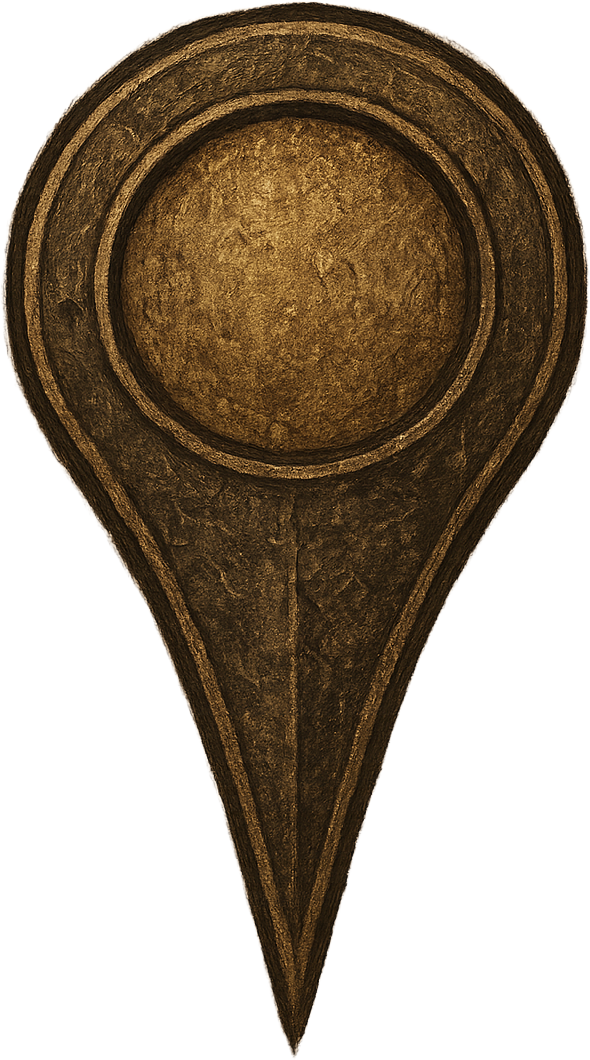
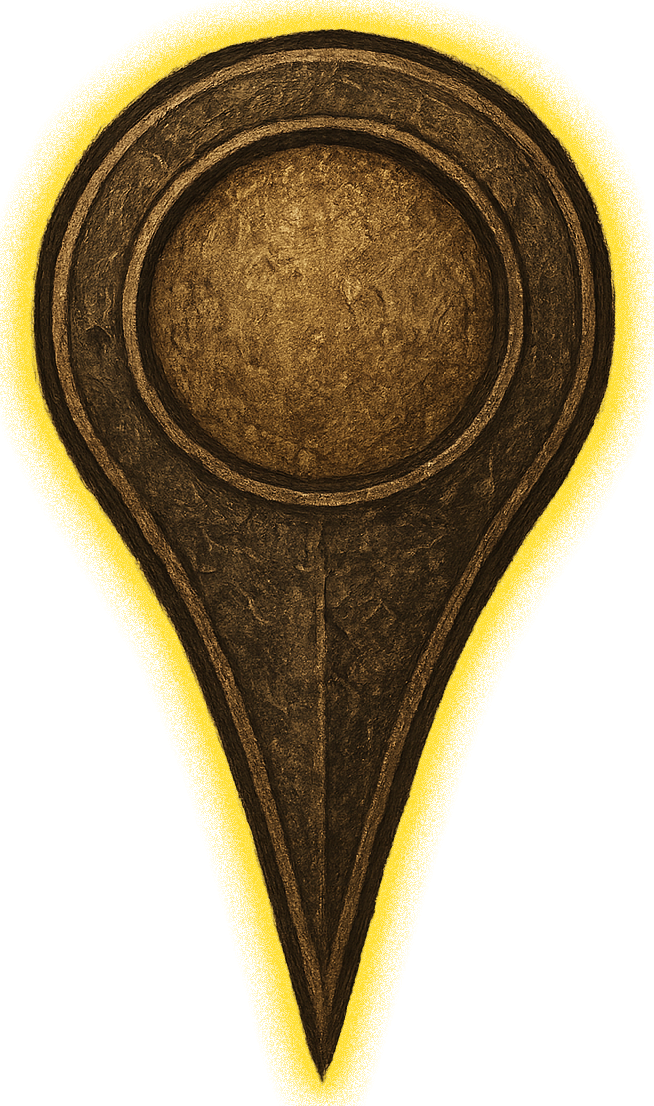
座標を添加した

diff --git a/js/elden-ring-map.js b/js/elden-ring-map.js
@@ -6,10 +6,10 @@ var mapMinResolution = Math.pow(2, mapMaxZoom) * mapMaxResolution;
 var tileExtent = [0.00000000, -6809.00000000, 6509.00000000, 0.00000000];
 var crs = L.CRS.Simple;
 crs.transformation = new L.Transformation(1, -tileExtent[0], -1, tileExtent[3]);
-crs.scale = function(zoom) {
+crs.scale = function (zoom) {
   return Math.pow(2, zoom) / mapMinResolution;
 };
-crs.zoom = function(scale) {
+crs.zoom = function (scale) {
   return Math.log(scale * mapMinResolution) / Math.LN2;
 };
 var layer;
@@ -22,7 +22,7 @@ var map = new L.Map('map', {
 layer = L.tileLayer('images/eldenring_map/{z}/{x}/{y}.jpg', {
   minZoom: mapMinZoom, maxZoom: mapMaxZoom,
   tileSize: L.point(512, 512),
-  attribution: '<a href="https://www.maptiler.com/engine/">Rendered with MapTiler Engine</a>, non-commercial use only',
+  attribution: '',
   noWrap: true,
   tms: true
 }).addTo(map);
@@ -33,3 +33,169 @@ map.fitBounds([
 ]);
 
 L.control.mousePosition().addTo(map);
+
+
+// ========== 0) 工具函数 ==========
+function escapeHtml(s = "") {
+  return s.replace(/[&<>"']/g, m => ({ '&': '&amp;', '<': '&lt;', '>': '&gt;', '"': '&quot;', "'": '&#39;' }[m]));
+}
+
+// 若你的底图是用 L.CRS.Simple（常见于切图的大图），你可能掌握的是“像素坐标”。
+// 可以用这个小工具把像素坐标转成 Leaflet 需要的 LatLng：
+function fromPixels(pxX, pxY, atZoom = (map && map.getMaxZoom ? map.getMaxZoom() : 0)) {
+  // 返回 [lat, lng]
+  return map.unproject([pxX, pxY], atZoom);
+}
+
+// ========== 1) 信息面板渲染 ==========
+const infoBox = document.querySelector('#poi-info') || document.querySelector('.info');
+function nl2br(s = '') {
+  // 先转义，再把 \n 变成 <br>
+  return escapeHtml(s).replace(/\r?\n/g, '<br>');
+}
+
+function renderInfo(poi) {
+  const infoBox = document.querySelector('#poi-info') || document.querySelector('.info');
+  const safeName = escapeHtml(poi.name);
+  const analysisHtml = nl2br(poi.analysis || '');
+  infoBox.innerHTML = `
+    <h2>${safeName}</h2>
+    ${poi.img ? `<img src="${poi.img}" alt="${safeName}">` : ''}
+    <p class="analysis">${analysisHtml}</p>
+  `;
+}
+
+// ========== 2) 自定义图标 ==========
+// 1) 按原图比例 590:1060 设置显示尺寸（像素）
+//    你只需要改这个高度即可（例如 48、56、64 等），宽度会自动按比例算。
+const PIN_HEIGHT = 56;
+const PIN_RATIO = 590 / 1060; // 宽高比
+const PIN_WIDTH = Math.round(PIN_HEIGHT * PIN_RATIO);
+
+// 2) 锚点在图片底部正中（x = 宽度一半，y = 高度）
+//    这样大头针“尖端”就会准确落在坐标点上。
+const pinIcon = L.icon({
+  iconUrl: 'images/thumbtack_icon.png',
+  iconSize: [PIN_WIDTH, PIN_HEIGHT],
+  iconAnchor: [Math.round(PIN_WIDTH / 2), PIN_HEIGHT],
+  // 可选：给提示/tooltip使用
+  tooltipAnchor: [0, -Math.round(PIN_HEIGHT * 0.8)]
+});
+
+// ========== 3) 兴趣点数据（示例） ==========
+// coords 使用 [lat, lng]（Leaflet 坐标）。如果你的地图是 L.CRS.Simple，
+// 而你手里是像素坐标 (pxX, pxY)，则请用 fromPixels(pxX, pxY) 转换。
+const POIS = [{
+  id: 'limgrave',
+  name: 'リムグレイブ',
+  coords: [-5200, 2500],
+  img: 'images/pois/limgrave.jpg',
+  analysis: '【背景紹介】はじまりの地。嵐と陽光が交錯する丘陵と古城、放棄された砦が「褪せ人」の出立地点としての寓意を担う。\n【美術分析】空はしばしば高コントラストで、雲影が芝の起伏を切り分ける。彩度を抑えた緑と石灰質の灰が主調で、黄金樹の黄のみが高彩度のアクセントとして遠景に釘を打つ。道は蛇行しつつ視線を遺跡と城砦へ導き、樹木はウィンドブレイク（風の方向）を示して時間感覚を生む。中世風の石造モチーフと自然の有機的形状の対置によって、「文明の残響」のテーマが視覚的に確立される。'
+},
+{
+  id: 'caelid',
+  name: 'ケイリッド',
+  coords: [-4850, 3600],
+  img: 'images/pois/caelid.jpg',
+  analysis: '【背景紹介】腐敗と戦役の傷跡が大地そのものを蝕んだ辺境。\n【美術分析】色彩は病的な赤と黒の二項対立。空気遠近は通常の青みを捨て、粉塵のオレンジ霧で距離感を歪ませる。樹形はねじれ、地表は膿泡のような起伏を繰り返し、輪郭は鋸歯状に処理されるため視覚的ストレスが持続する。直立する風車・骨柱が垂直軸を強調し、地平線の低さと相まって圧迫感を増幅。「腐敗＝崩壊美」の審美を、意図的な不快さと荘厳さの同居で描く。'
+},
+{
+  id: 'raya-lucaria',
+  name: '魔術学院レアルカリア',
+  coords: [-3553, 842],
+  img: 'images/pois/raya-lucaria.jpg',
+  analysis: '【背景紹介】学術と権威の象徴として湖上に孤立する学院都市。\n【美術分析】ゴシック的尖塔と回廊の反復が「知の垂直性」を示す。石材は冷色寄りのグレーで統一し、湖面の反射光が建築のシャドウを青く冷却する。構図は常に上下二層（空／水）で挟み込み、橋梁や舟が唯一の水平導線となる。魔術効果の粒子は補色の淡い青白で処理され、静謐な色面の中に微細な運動を与える。空間全体が実験室のように滅菌され、「理性の距離」を視覚化。'
+},
+{
+  id: 'stormveil',
+  name: 'ストームヴィル城',
+  coords: [-4850, 1800],
+  img: 'images/pois/stormveil.jpg',
+  analysis: '【背景紹介】嵐を抱く断崖に築かれた巨大城塞。門は客人を拒む身体のように歪む。\n【美術分析】斜線（風・旗・雲）が構図全体を支配し、常に対角方向の運動が生まれる。石壁は苔・蔦・割れでテクスチャ密度が高く、近景の粗さ／遠景の均整というスケールの反転が不安を醸す。暖色の松明が冷たい石の色温度を局所的に反転し、攻略導線を示すダイエジェティック・ライティングとして機能。建築は「加算」ではなく「欠損」で語られ、欠け・崩落が物語の主語となる。'
+},
+{
+  id: 'liurnia',
+  name: '湖のリエーニエ',
+  coords: [-4050, 1100],
+  img: 'images/pois/liurnia.jpg',
+  analysis: '【背景紹介】浅い湖水と霧が領する学術領の外縁。\n【美術分析】低彩度の群青〜灰が基調で、霧のボリュームライトが遠近を柔らかく分節する。水面は鏡ではなく薄膜として描かれ、反射は意図的に鈍らせて冴えを回避。尖塔や墓標が点景として水平の単調さを破り、視線をスキャンするリズムを作る。環境音と色の冷却で「余白」を強調し、戦闘の閃光が画面の唯一の高周波情報として際立つ、静／動の対照が美学の核。'
+},
+{
+  id: 'altus-plateau',
+  name: 'アルトゥス高原',
+  coords: [-2200, 1932],
+  img: 'images/pois/altus-plateau.jpg',
+  analysis: '【背景紹介】黄金樹に最も近い高地。豊穣と荘厳が同時に現れる聖域前庭。\n【美術分析】草海は明度の高い黄緑で塗られ、夕刻のような斜光が長い影を引く。遠景の黄金樹は常に画面の黄金比付近に位置し、自然と視線を吸引するランドマーク設計。列柱・古代遺構が規則的なリズムで並び、都市的秩序と自然の起伏が和音を奏でる。空気は粒子状の金塵で満たされ、神聖性を「光の密度」で表現。'
+},
+{
+  id: 'erdtree',
+  name: '黄金樹',
+  coords: [-2660, 3000],
+  img: 'images/pois/erdtree.jpg',
+  analysis: '【背景紹介】世界の中心軸であり祝福と支配の象徴。\n【美術分析】幹は超越的スケールで描かれ、枝葉は発光材質として空を塗り替える。色彩は純度の高い金で、周囲の色相を吸収・支配し、環境全体がモノクローム化する。根は地表の地形線そのものとなり、地図的／神学的な「地の支配」を視覚化。近接時は葉の粒子表現が「神意の雨」のように降り、観者の身体を作品の内部に取り込む没入演出となる。'
+},
+{
+  id: 'leyndell',
+  name: '王都ローデイル',
+  coords: [-2450, 2650],
+  img: 'images/pois/leyndell.jpg',
+  analysis: '【背景紹介】黄金樹の麓に展開する宗廟都市。栄華と硬直の終着点。\n【美術分析】白石の街路と黄金の装飾が高コントラストを形成し、樹からの放射状プランが都市計画の秩序を示す。巨大な龍骸が流線形の街路と交差し、歴史の断絶が一筆で描かれる。光は上からの正面光が多く、陰影は薄い—これは「真実を覆い隠す影の欠如」という逆説的表現。祝祭の色と葬送の静けさが同居する厳粛なパレット。'
+},
+{
+  id: 'farum-azula',
+  name: '崩れゆくファルム・アズラ',
+  coords: [-3220, 5912],
+  img: 'images/pois/farum-azula.jpg',
+  analysis: '【背景紹介】嵐の渦中に漂う古代都市。時間が解体し続ける遺構。\n【美術分析】建築ブロックが空間的に分解され、アーチは半分だけ残り、連続性が断たれる。色調は風化した砂岩と鉛色の空で抑制され、稲妻のみが高輝度の瞬発的アクセント。遠景は渦の遠近によって放射状に歪み、地平は消失。観者は「重力と時間」の破綻を視覚として体験する。龍のモチーフが曲線の反復で全体に潜み、都市そのものが生物のように見える。'
+},
+{
+  id: 'volcano-manor',
+  name: '火山館',
+  coords: [-2070, 1100],
+  img: 'images/pois/volcano-manor.jpg',
+  analysis: '【背景紹介】反権威の結社が拠る、火口縁の貴族館。\n【美術分析】内装は暖色のビロード、燭台、油彩肖像で統一され、外の黒い玄武岩と強い色温度差を作る。曲線的な廊下と密度の高い壁面装飾が「閉鎖と結束」を表し、隠し通路の多用が視覚的パラノイアを誘発。外界の溶岩は高輝度の流動線として画面を切り裂き、館の静的な秩序と火のカオスが常に干渉し合う。'
+},
+{
+  id: 'mountaintops',
+  name: '巨人たちの山嶺',
+  coords: [-1647, 3840],
+  img: 'images/pois/mountaintops.jpg',
+  analysis: '【背景紹介】雪と風に晒された終末的高地。巨人の記憶が風紋となって残る。\n【美術分析】色はほぼ無彩で、雪の白を基調に金属的な青灰が混ざる。コントラストは気象で変動し、吹雪時は輪郭が消え、形が「質量」ではなく「気配」で読まれる。稀に見える炎の赤は強烈な補色アクセントとなり、視線と導線を同時に担う。音と風の粒度が画面の粗さと連動し、身体感覚としての寒さを視覚に翻訳する。'
+}
+];
+
+// ========== 4) 将 POI 加到地图 ==========
+const markerLayer = L.layerGroup().addTo(map);
+let activeMarker = null;
+
+POIS.forEach((p) => {
+  const marker = L.marker(p.coords, { icon: pinIcon, title: p.name });
+  marker.on('add', function () {
+    // 给图钉加个自定义 class，方便样式控制；并设置无障碍 alt（可选）
+    if (this._icon) {
+      this._icon.classList.add('poi-marker');
+      this._icon.setAttribute('alt', p.name);
+    }
+  });
+  marker.on('click', function () {
+    // 激活态样式
+    if (activeMarker && activeMarker._icon) {
+      activeMarker._icon.classList.remove('poi-marker--active');
+    }
+    if (this._icon) this._icon.classList.add('poi-marker--active');
+    activeMarker = this;
+
+    // 更新信息面板
+    renderInfo(p);
+  });
+  marker.addTo(markerLayer);
+});
+
+// ========== 5) 体验小优化（可选） ==========
+map.on('click', () => {
+  if (activeMarker && activeMarker._icon) {
+    activeMarker._icon.classList.remove('poi-marker--active');
+  }
+  activeMarker = null;
+  if (infoBox) infoBox.innerHTML = '<h2>探索の導き</h2><p>地図上のマーカーをクリックして、詳細を確認しましょう。</p>';
+});

diff --git a/css/style.css b/css/style.css
@@ -319,13 +319,24 @@ main {
 }
 
 /*--- eldenring->main ---*/
-#eldenring-main{
+#eldenring-main {
   height: 100vh;
   justify-content: center;
   align-items: center;
+  flex-direction: column;
+  gap: 3rem;
+}
+#eldenring-main article{
+  display: flex;
+  height: 100%;
+  width: 100%;
+  justify-content: center;
   gap:3vw;
 }
-
+#eldenring-main h1{
+  margin-top: 3rem;
+  text-align: center;
+}
 #map {
   width: 45%;
   height: 90%;
@@ -343,6 +354,40 @@ main {
   z-index: 5;
 }
 
+.info {
+  width: 40%;
+  padding: 12px;
+  overflow: auto;
+  color: #fff;
+  border-radius: 10px;
+}
+
+.info img {
+  display: block;
+  max-width: 100%;
+  border-radius: 8px;
+  margin: .5rem 0;
+}
+.info h2{
+  font-size: 30px;
+}
+.info p {
+  font-size: 20px;
+}
+
+/* 图钉的交互效果（可选） */
+.leaflet-marker-icon.poi-marker {
+  transition: transform .15s ease;
+}
+
+.leaflet-marker-icon.poi-marker:hover {
+  transform: translateY(-2px) scale(1.05);
+}
+
+.leaflet-marker-icon.poi-marker--active {
+  transform: translateY(-4px) scale(1.12);
+  filter: drop-shadow(0 2px 6px rgba(0, 0, 0, .45));
+}
 
 /* ------------------------- Footer 共通 ------------------------- */
 footer {

diff --git a/elden-ring.html b/elden-ring.html
@@ -15,7 +15,8 @@
   <link rel="stylesheet" href="https://cdnjs.cloudflare.com/ajax/libs/leaflet/1.7.1/leaflet.css">
   <link rel="stylesheet"
     href="https://cdn.rawgit.com/ardhi/Leaflet.MousePosition/master/src/L.Control.MousePosition.css">
-</head>
+  <script src="https://cdn.rawgit.com/ardhi/Leaflet.MousePosition/master/src/L.Control.MousePosition.js"></script>
+  </head>
 
 <body>
   <div class="wrapper" id="eldenring-wrapper">
@@ -33,11 +34,14 @@
 
 
     <main id="eldenring-main">
+      <h1>伝説の創造、オープンな世界の魂<br/>探索を始めよう</h1>
+      <article>
       <div id="map"></div>
-      <div id="info">
+      <aside class="info" id="poi-info">
         <h2>探索の導き</h2>
         <p>地図上のマーカーをクリックして、詳細を確認しましょう。</p>
-      </div>
+      </aside>
+      </article>
     </main>
 
     <footer>
